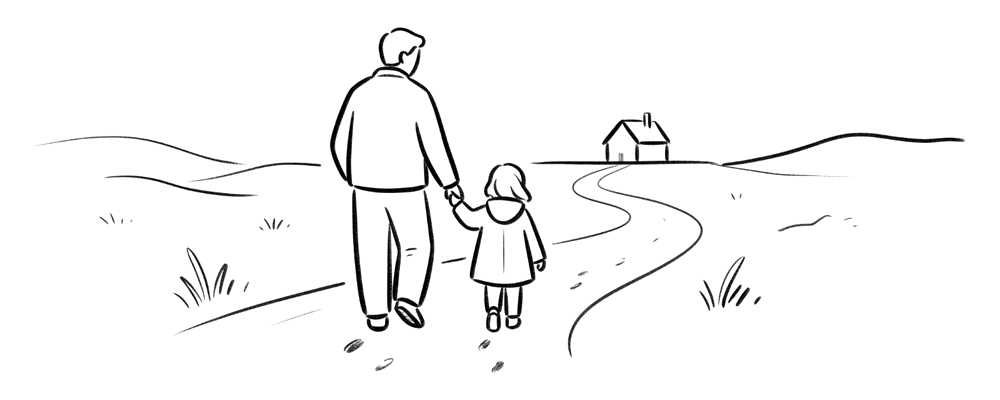
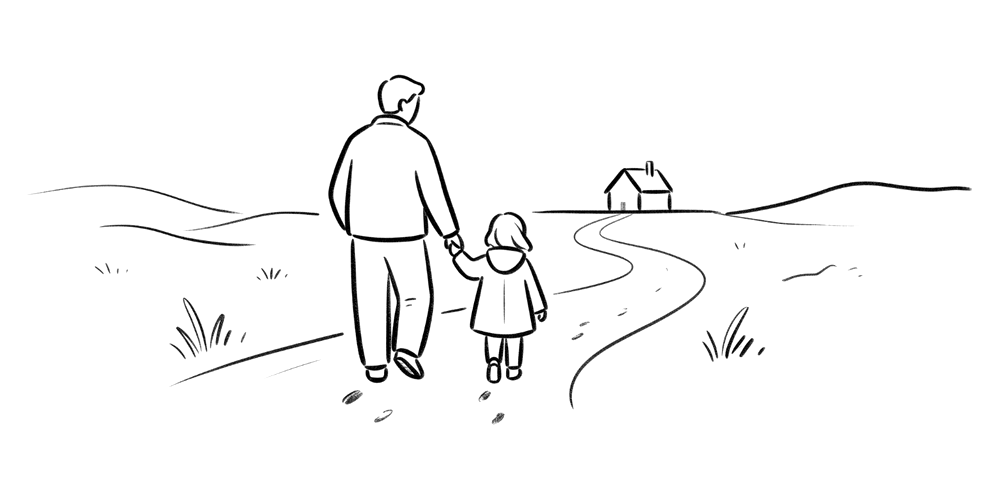
Theme drawings: first 42; dates without the time
- 42 theme drawings converted (tools/make_vignettes.py), now in a 2:1 frame
- Drawing originals stay on this computer (gitignored); SUBJECTS.md lists every theme's subject
- Theme file names drop apostrophes (God's presence -> gods-presence)
- Entry and Past entries dates no longer show the time

diff --git a/static/app.js b/static/app.js
@@ -314,7 +314,7 @@
     } else if (switching) {
       animatePage($("entry-view"), "view-in");
     }
-    $("entry-date").textContent = `${longDate(entry.created_at)} · ${timeOf(entry.created_at)}`;
+    $("entry-date").textContent = longDate(entry.created_at);   // the date only: the time is clutter here
     showEntryWords(entry);
     $("entry-text").textContent = entry.text;
     renderEntryThemes(entry);
@@ -931,7 +931,9 @@
 
   // The drawing for an entry's main theme (its first), if there is one: a pencil
   // sketch painted in the theme's color through a cut-out (see tools/make_vignettes.py).
-  const themeSlug = (name) => name.toLowerCase().replace(/&/g, " and ").replace(/[^a-z0-9]+/g, "-").replace(/^-+|-+$/g, "");
+  // "Grief & loss" -> "grief-and-loss", "God's presence" -> "gods-presence" (the same rule as tools/make_vignettes.py)
+  const themeSlug = (name) => name.toLowerCase().replace(/['’]/g, "").replace(/&/g, " and ")
+    .replace(/[^a-z0-9]+/g, "-").replace(/^-+|-+$/g, "");
   function renderVignette(entry) {
     const box = $("reflection-vignette");
     const main = (entry.themes || [])[0];
@@ -1186,13 +1188,9 @@
     renderList();
   }
 
-  // "Thu, Oct 8, 2026 · 9:25 am · 60 words" (the time is left out on a phone, to keep the line short).
+  // "Thu, Oct 8, 2026 · 60 words" (no time: it only adds clutter).
   function listDate(line, entry) {
-    const time = document.createElement("span");
-    time.className = "list-time";
-    time.textContent = ` · ${timeOf(entry.created_at)}`;
-    line.append(document.createTextNode(shortDate(entry.created_at)), time,
-      document.createTextNode(` · ${plural(entry.word_count, "word")}`));
+    line.append(document.createTextNode(`${shortDate(entry.created_at)} · ${plural(entry.word_count, "word")}`));
   }
 
   // An entry's themes, quietly, at the end of its date line in Past entries ("· Work, Rest").

diff --git a/static/style.css b/static/style.css
@@ -580,7 +580,7 @@ html[data-text-size="xlarge"] { --text: 1.5rem; --lh: 2.5rem; }
 .insight p { margin: 0 0 1em; }
 /* The main theme's pencil drawing, at the top of the reflection, in the theme's color. */
 .reflection-vignette {
-  width: 100%; max-width: 460px; aspect-ratio: 5 / 2; margin: 0 auto 16px;   /* a wide strip across the reflection */
+  width: 100%; max-width: 400px; aspect-ratio: 2 / 1; margin: 0 auto 16px;   /* a wide strip across the reflection */
   background: var(--accent); opacity: 0.85;
   -webkit-mask: var(--vignette) center / contain no-repeat; mask: var(--vignette) center / contain no-repeat;
 }
@@ -1397,7 +1397,6 @@ a.google-btn svg { flex: none; width: 20px; height: 20px; }
   .reflection { margin-left: -6px; margin-right: -6px; padding: 18px 18px 10px; }
   .entry-nav { margin: -8px -8px 10px; }
   .entry-page .entry-nav { margin-right: 30px; }
-  #entry-list .list-time { display: none; }   /* Past entries on a phone: date, words and themes fit on one line */
   .page-ribbon, .page-ribbon:hover:not(:disabled) { right: 8px; }
   .page-ribbon svg { width: 22px; height: 36px; }
   .past { padding: 12px 16px 6px; }

diff --git a/tools/make_vignettes.py b/tools/make_vignettes.py
@@ -2,9 +2,12 @@
 
     uv run --with pillow python tools/make_vignettes.py
 
+(If Windows blocks that, install Pillow into the project once with `uv pip install pillow`
+and run `.venv/Scripts/python tools/make_vignettes.py` instead.)
+
 Reads every drawing in brand-source/vignettes/ (dark pencil on white, named after
 its theme: "family.png", "grief-and-loss.jpg") and writes a web-ready copy to
-static/vignettes/<theme>.png: cropped to the drawing, padded to the same wide 5:2
+static/vignettes/<theme>.png: cropped to the drawing, padded to the same wide 2:1
 shape, and turned into a cut-out (white becomes transparent, pencil stays), so
 the page can paint it in the reader's theme color, the way it does the logo.
 
@@ -18,7 +21,7 @@ from PIL import Image
 ROOT = Path(__file__).resolve().parent.parent
 SRC = ROOT / "brand-source" / "vignettes"
 OUT = ROOT / "static" / "vignettes"
-WIDTH, HEIGHT = 1000, 400         # 5:2, a wide strip: the full width of the reflection (up to about 460 x 184 px)
+WIDTH, HEIGHT = 1000, 500         # 2:1, a wide strip: the full width of the reflection (up to about 400 x 200 px)
 MARGIN = 0.03                     # white space kept around the drawing, as a share of its size
 INK = 236                         # brightness below which a pixel counts as part of the drawing
 
@@ -32,7 +35,7 @@ def vignette(path):
     pad = int(max(right - left, bottom - top) * MARGIN)
     drawing = gray.crop((max(0, left - pad), max(0, top - pad),
                          min(gray.width, right + pad), min(gray.height, bottom + pad)))
-    # Fit it into the 5:2 frame, centered, keeping its proportions.
+    # Fit it into the 2:1 frame, centered, keeping its proportions.
     scale = min(WIDTH / drawing.width, HEIGHT / drawing.height)
     drawing = drawing.resize((max(1, round(drawing.width * scale)), max(1, round(drawing.height * scale))), Image.LANCZOS)
     frame = Image.new("L", (WIDTH, HEIGHT), 255)
@@ -58,7 +61,7 @@ def vignette(path):
 def slug(name):
     """'Grief & loss' -> 'grief-and-loss' (the same rule the page uses)."""
     import re
-    return re.sub(r"[^a-z0-9]+", "-", name.lower().replace("&", " and ")).strip("-")
+    return re.sub(r"[^a-z0-9]+", "-", re.sub(r"['’]", "", name.lower()).replace("&", " and ")).strip("-")
 
 
 def main():

diff --git a/brand-source/vignettes/SUBJECTS.md b/brand-source/vignettes/SUBJECTS.md
@@ -1,0 +1,102 @@
+# Theme drawings: subjects for NanoBanana
+
+Save each drawing here as the file name shown, then run
+`uv run --with pillow python tools/make_vignettes.py` (or ask Claude to).
+Use the style prompt in the README (Themes → Theme drawings) and swap in the subject.
+Figures fill most of the height; the scene about twice as wide as it is tall.
+
+## Shared by both editions (44)
+
+| Theme | File | Subject |
+|---|---|---|
+| Aging | aging.png | an elderly couple sitting side by side on a park bench, seen from behind, a tree beside them |
+| Ambition | ambition.png | a hiker climbing a steep path toward a mountain peak in the distance |
+| Anger | anger.png | a person standing with clenched fists beside a rolling storm cloud, rain beginning to fall |
+| Body | body.png | a person stretching their arms wide on a hillside at sunrise |
+| Change | change.png | a winding path leading through a gate from bare winter trees into a blossoming field |
+| Community | community.png | a small group of people sharing a long table outdoors under string lights |
+| Conflict | conflict.png | two people standing apart on either side of a small stream, turned slightly away from each other |
+| Contentment | contentment.png | a person sitting in a doorway with a cup of tea, a cat curled beside them |
+| Courage | courage.png | a small figure stepping onto a narrow rope bridge across a ravine |
+| Creativity | creativity.png | a person at an easel painting outdoors, a few birds rising from the canvas |
+| Death & mortality | death-and-mortality.png | an empty bench beneath a single tree on a hill at dusk, a few leaves falling |
+| Decisions | decisions.png | a person standing where a path splits in two directions through a field |
+| Envy | envy.png | a person looking over a garden fence at a neighbor's blooming garden |
+| Failure | failure.png | a child's paper boat tipped over at the edge of a pond, the child kneeling to set it right |
+| Family | family.png | a parent and a child walking hand in hand along a path, seen from behind, a small house in the distance |
+| Fear & anxiety | fear-and-anxiety.png | a person holding a lantern at the edge of a dark forest path |
+| Friendship | friendship.png | two friends sitting on a dock, feet over the water, sharing a laugh |
+| Gratitude | gratitude.png | a person with open hands holding a few seeds, a small sprout at their feet |
+| Grief & loss | grief-and-loss.png | a person sitting alone by a lake, an empty chair beside them |
+| Habits | habits.png | a row of footprints in sand leading steadily toward the horizon |
+| Health | health.png | a person walking briskly along a country lane with a walking stick |
+| Home | home.png | a small cottage with smoke rising from the chimney and a lit window |
+| Honesty | honesty.png | a person looking into a still pond, their reflection clear in the water |
+| Hope | hope.png | a single small sprout pushing up through cracked ground, the sun rising behind |
+| Joy | joy.png | a child running through a meadow with a kite trailing behind |
+| Kindness | kindness.png | one person holding an umbrella over another in the rain |
+| Learning | learning.png | a person reading under a large tree, a stack of books beside them |
+| Loneliness | loneliness.png | a single figure on a long empty road beneath a wide sky |
+| Love | love.png | two people walking arm in arm along a beach, seen from behind |
+| Marriage & partnership | marriage-and-partnership.png | two people rowing a small boat together across a lake |
+| Money | money.png | a person holding a small purse, weighing a few coins in an open palm at a market stall |
+| Nature | nature.png | a person sitting on a rock beside a stream in a quiet forest |
+| Parenting | parenting.png | a parent kneeling to tie a small child's shoe on a path |
+| Patience | patience.png | a person fishing from the end of a pier, the line still |
+| Pride | pride.png | a person standing tall on a small hill, chin raised, others small in the valley below |
+| Purpose | purpose.png | a person planting a young tree with a spade |
+| Regret | regret.png | a person looking back over their shoulder at a path behind them |
+| Rest | rest.png | a person asleep in a hammock strung between two trees |
+| Self-knowledge | self-knowledge.png | a person sitting cross-legged before an open journal, looking inward, eyes closed |
+| Shame | shame.png | a person sitting with head bowed, a friend's hand resting gently on their shoulder |
+| Success | success.png | a person standing at the top of a hill beside a small flag, looking out at the view |
+| Time | time.png | an hourglass on a windowsill beside a window looking out over fields |
+| Travel | travel.png | a person with a backpack walking toward a train on a country platform |
+| Work | work.png | a person at a workbench planing a piece of wood, tools hanging on the wall |
+
+## In His Steps only (20)
+
+| Theme | File | Subject |
+|---|---|---|
+| Calling | calling.png | a person setting down fishing nets on a shore and walking toward the hills |
+| Church | church.png | a small country church with a steeple, people walking up the path to its open door |
+| Faith & doubt | faith-and-doubt.png | a person stepping out onto calm water from a small boat, reaching forward |
+| Forgiveness | forgiveness.png | two people embracing after a long separation on a path outside a house |
+| God's presence | gods-presence.png | a person kneeling in a sunlit clearing in a forest, light falling through the trees |
+| Grace | grace.png | a person with arms open receiving gentle rain on a dry field that is turning green |
+| Holiness | holiness.png | a lit candle on a simple wooden table beside an open Bible |
+| Humility | humility.png | a person kneeling to wash another's feet with a basin and towel |
+| Prayer | prayer.png | a person kneeling beside a bed at dawn, hands folded, a window beside them |
+| Repentance | repentance.png | a person turning around on a road and walking back toward a distant house |
+| Sabbath | sabbath.png | a quiet table set for a meal by an open window, tools put away |
+| Scripture | scripture.png | an open Bible on a table beside a cup of coffee and morning light |
+| Service | service.png | one person reaching down to help another up from the ground |
+| Sharing faith | sharing-faith.png | two people talking warmly on a bench, one gesturing gently |
+| Sin & temptation | sin-and-temptation.png | a person standing at a fork in a garden path, one way overgrown with thorns |
+| Spiritual dryness | spiritual-dryness.png | a person walking across a dry desert toward a single distant tree |
+| Suffering & trials | suffering-and-trials.png | a person carrying a heavy load up a rocky path, a companion helping lift it |
+| Trust & surrender | trust-and-surrender.png | a person floating on their back in calm water, arms outstretched |
+| Waiting on God | waiting-on-god.png | a person sitting at the edge of a field at dawn, watching the horizon |
+| Worship | worship.png | a small group singing with raised hands on a hillside at sunrise |
+
+## A Life Well Lived only (17)
+
+| Theme | File | Subject |
+|---|---|---|
+| Desire | desire.png | a person reaching up toward ripe fruit on a branch just out of reach |
+| Duty | duty.png | a lighthouse keeper climbing the stairs of a lighthouse at dusk |
+| Fortune & adversity | fortune-and-adversity.png | a small sailboat leaning into the wind on choppy water |
+| Freedom | freedom.png | a person releasing a bird from open hands on a hilltop |
+| Happiness | happiness.png | a family picnicking on a blanket in a meadow |
+| Justice | justice.png | a set of balance scales resting on a stone ledge, evenly weighted |
+| Meaning | meaning.png | a person looking up at a night sky full of stars from a hillside |
+| Meditation & stillness | meditation-and-stillness.png | a person sitting cross-legged on a flat rock beside a still lake |
+| Reason & emotion | reason-and-emotion.png | a rider gently guiding a spirited horse along a path |
+| Self-mastery | self-mastery.png | a person calmly steering a small boat through rough water |
+| Simplicity | simplicity.png | a small cabin by a pond with a single chair on the porch |
+| Solitude | solitude.png | a person walking alone along a quiet beach at dawn |
+| The good life | the-good-life.png | friends sharing bread and wine at a table in an olive grove |
+| Truth & doubt | truth-and-doubt.png | a person lifting a lamp to look closely at a signpost at a crossroads |
+| Virtue | virtue.png | a person carefully tending a young tree, staking and watering it |
+| What I can control | what-i-can-control.png | a person tending a small garden plot while storm clouds pass in the distance |
+| Wisdom | wisdom.png | an old person and a young person sitting together under a large tree, talking |

diff --git a/README.md b/README.md
@@ -86,9 +86,9 @@ Search runs in memory on the unlocked journal (`journal/search.py`); nothing rea
 
 Each entry is tagged with 1 to 3 **themes** from a fixed list for the app (`editions/<edition>/themes.txt`, one per line: edit it freely). Claude picks them with the reflection, at no extra cost. Entries written before themes existed (or whose reflection didn't come through) are tagged quietly in small batches while the journal is open, using a small, inexpensive model that sees only each entry's title and opening; this doesn't count toward the daily reflection limit (up to 400 a day per person).
 
-In **Past entries**, each entry's themes appear quietly at the end of its date line ("Thu, Oct 8, 2026 · 9:25 am · 60 words · *Work, Rest*"; the time is left out on a phone), and the theme you're filtering on stands out in your accent color. Above **Past entries**, **Themes** opens the themes your entries have, with how many entries each; pick one to see only those entries (combined with Favorites, the calendar and search), and **All** clears it. An entry's themes also show under its text; click one to see every entry with that theme.
+In **Past entries**, each entry's themes appear quietly at the end of its date line ("Thu, Oct 8, 2026 · 60 words · *Work, Rest*"), and the theme you're filtering on stands out in your accent color. Above **Past entries**, **Themes** opens the themes your entries have, with how many entries each; pick one to see only those entries (combined with Favorites, the calendar and search), and **All** clears it. An entry's themes also show under its text; click one to see every entry with that theme.
 
-**Theme drawings:** a reflection whose main theme (its first) has a drawing shows it at the top of the reflection: a small pencil sketch painted in your color theme. To add one, save a dark-pencil-on-white drawing to `brand-source/vignettes/`, named after the theme in lowercase with hyphens (`family.png`, `grief-and-loss.png`), then run `uv run --with pillow python tools/make_vignettes.py` and push. It crops the drawing, fits it to a wide 5:2 frame and turns it into a cut-out in `static/vignettes/`. Themes without a drawing simply show none. The drawings are shared by both apps. The prompt used for them (NanoBanana) keeps the style the same: "A small, minimal pencil sketch illustration of [subject]. Loose hand-drawn graphite lines, light cross-hatching, like a quiet vignette in an old book; dark grey pencil only; pure flat white background with no texture, shadow or frame; one simple centered scene filling about 70% of a square canvas; gentle, faces simple or turned away; no color or text; 1024 x 1024."
+**Theme drawings:** a reflection whose main theme (its first) has a drawing shows it at the top of the reflection: a small pencil sketch painted in your color theme. To add one, save a dark-pencil-on-white drawing to `brand-source/vignettes/`, named after the theme in lowercase with hyphens (`family.png`, `grief-and-loss.png`), then run `uv run --with pillow python tools/make_vignettes.py` and push. It crops the drawing, fits it to a wide 2:1 frame and turns it into a cut-out in `static/vignettes/`. Themes without a drawing simply show none. The drawings are shared by both apps. The prompt used for them (NanoBanana) keeps the style the same: "A small, minimal pencil sketch illustration of [subject]. Loose hand-drawn graphite lines, light cross-hatching, like a quiet vignette in an old book; dark grey pencil only; pure flat white background with no texture, shadow or frame; one simple centered scene filling about 70% of a square canvas; gentle, faces simple or turned away; no color or text; 1024 x 1024."
 
 The two apps share most themes (work, family, grief & loss, gratitude…), each with its own flavor: *Meditation & stillness*, *Virtue*, *What I can control* in A Life Well Lived; *Prayer*, *Grace*, *Trust & surrender* in In His Steps.
 
